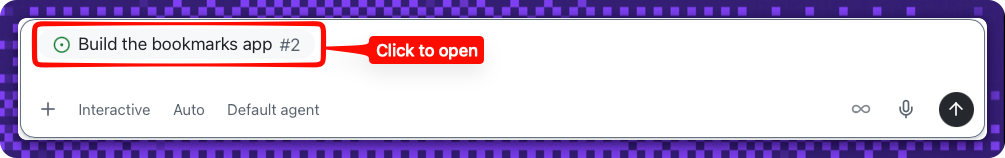
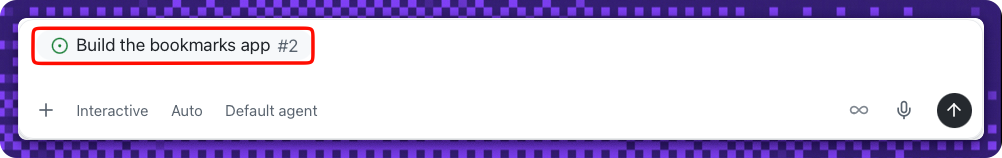
Step 3: replace step3-open-issue.png and align alt text
Swap in the updated screenshot of the Build the bookmarks app #2 issue above the
prompt field. The new capture no longer shows a "Click to open" callout, so
update the alt text and image manifest to describe the highlighted issue chip.

Copilot-Session: a9ddd07b-77bf-43e0-a5d9-c6426a067e0e

diff --git a/.github/images/README.md b/.github/images/README.md
@@ -23,7 +23,7 @@ files use `<!-- image: ... -->` HTML-comment placeholders so issue comments stil
 | `ghcp-app-plan.png` | 2 · Act 1 details | Session **Plan** tab for the copilot-instructions update |
 | `ghcp-app-changes.png` | 2 · Act 1 details | Session **Changes** tab: copilot-instructions.md diff (TODO removed, rules added) |
 | `ghcp-app-pr.png` | 2 · Act 1 details | Session **PR #3** tab: open pull request targeting `main` |
-| `step3-open-issue.png` | 3 · Act 1 | The **Build the bookmarks app** issue #2 above the prompt field with a 'Click to open' callout |
+| `step3-open-issue.png` | 3 · Act 1 | The **Build the bookmarks app** issue #2 highlighted above the prompt field, ready to reference in the session |
 | `step3-issue-prompt.png` | 3 · Act 1 | The build prompt in the session with issue **#2** referenced as a chip |
 | `step3-reopen-issue.png` | 3 · Act 1 tip | Session panel menu with the **Build the bookmarks app** issue to reopen it in the side panel |
 | `ghcp-app-step3-pr.png` | 3 · Act 1 details | Session **PR #4** tab: open pull request 'Implement bookmarks feature with base62 mona- slugs' that Closes #2 (+107 -21 into `main`) |

diff --git a/.github/steps/3-step.md b/.github/steps/3-step.md
@@ -36,7 +36,7 @@ A few things to know about the build:
    <img width="420" alt="The New session button highlighted in the top-right of the session panel, next to the repository name" src="../images/new-session.png" />
 1. In the new session, open your **Build the bookmarks app** issue: type `#2` in the prompt field and press **Tab** to attach it as context for the build.
 
-   <img width="460" alt="The Build the bookmarks app issue #2 shown above the prompt field with a 'Click to open' callout" src="../images/step3-open-issue.png" />
+   <img width="460" alt="The Build the bookmarks app issue #2 highlighted above the prompt field, ready to reference in the session" src="../images/step3-open-issue.png" />
 1. Send the build prompt below. It implements the feature and opens a pull request that links issue **#2** with a closing keyword, then walks you through the diff and **stops — leaving the merge to you**:
 
    > ![Static Badge](https://img.shields.io/badge/Prompt-text?style=for-the-badge&logo=github-copilot&logoColor=white&labelColor=purple&color=purple)
